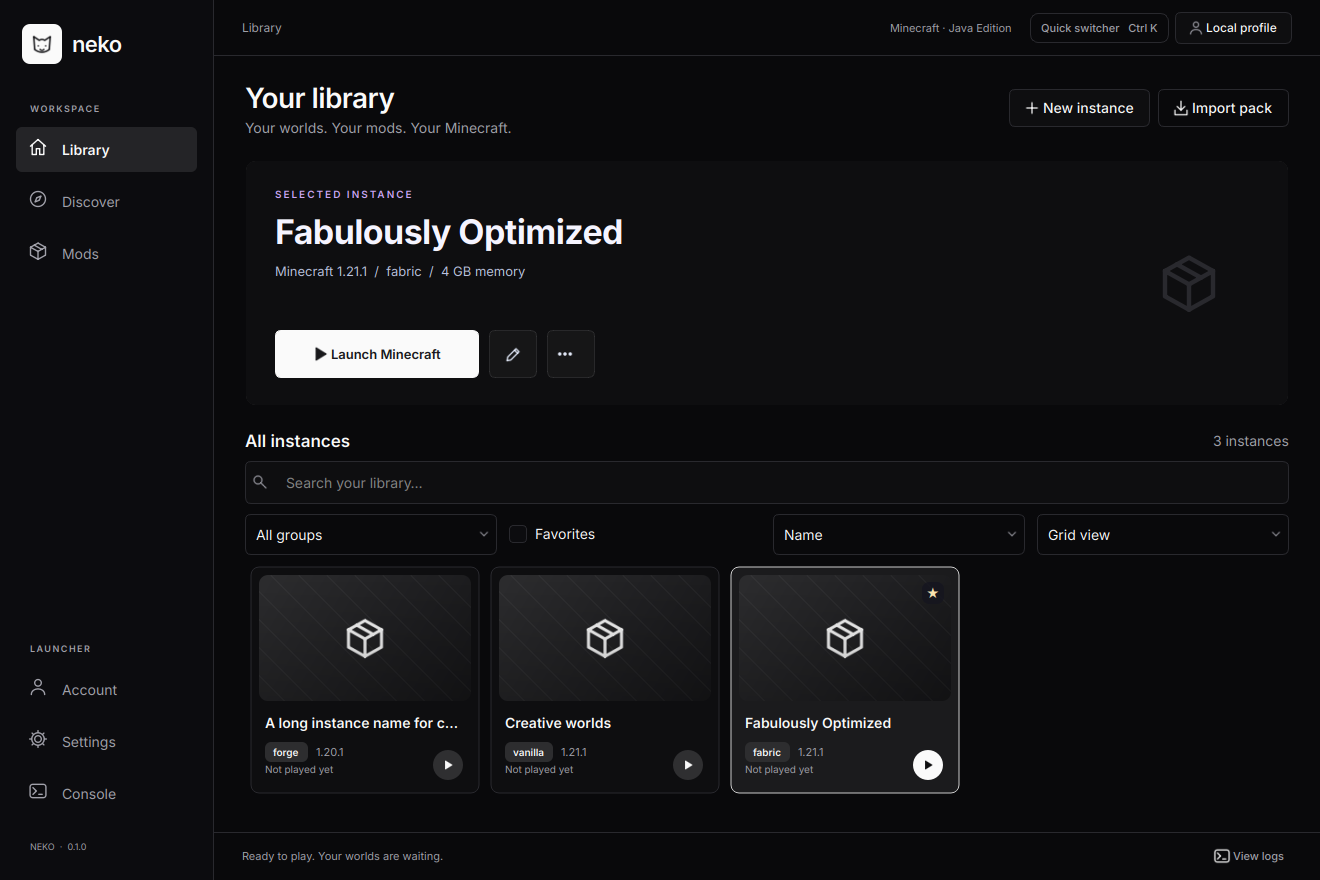
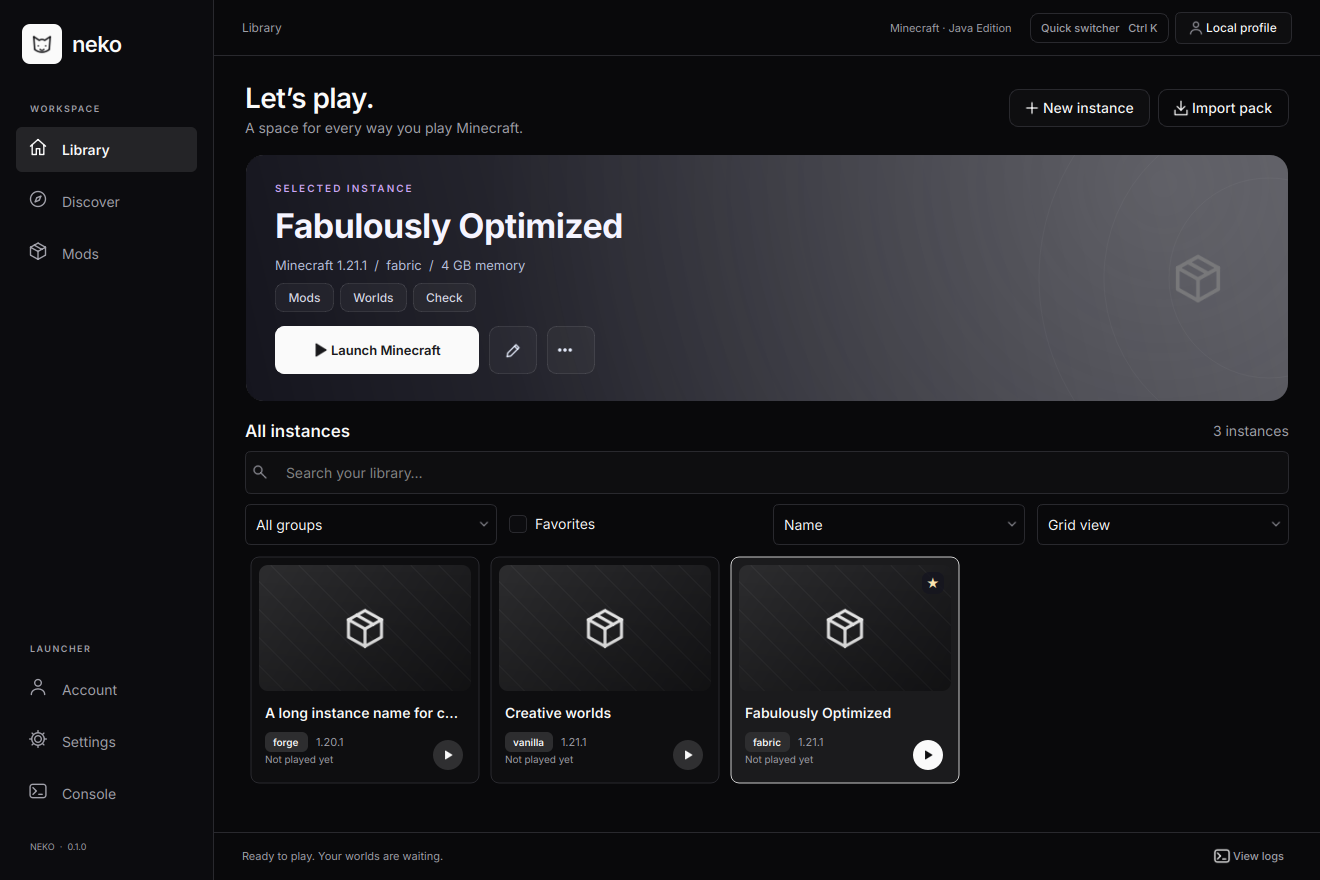
feat: add mod management and library shortcuts

diff --git a/src/ui/mods.cpp b/src/ui/mods.cpp
@@ -7,8 +7,30 @@ using namespace neko::ui;
 QWidget *Window::modsPage() {
     QVBoxLayout *l;
     auto *w = page(l, "Your mods",
-                   "Manage the mods in the selected instance. Double-click a mod to enable or disable it.");
+                   "Build your loadout. Browse, organize and toggle mods for the selected instance.");
+    auto *filters = new QHBoxLayout;
+    modSearch = entry({}, "Search installed mods…");
+    modSearch->setProperty("searchField", true);
+    modSearch->setClearButtonEnabled(true);
+    filters->addWidget(modSearch, 1);
+    modState = new QComboBox;
+    modState->addItems({"All mods", "Enabled", "Disabled"});
+    filters->addWidget(modState);
+    button("Refresh", filters, [this] { refreshMods(); })->setToolTip("Refresh installed mods · F5");
+    auto *refreshShortcut = new QShortcut(QKeySequence(Qt::Key_F5), w);
+    refreshShortcut->setContext(Qt::WidgetWithChildrenShortcut);
+    connect(refreshShortcut, &QShortcut::activated, this, [this] { refreshMods(); });
+    auto *findShortcut = new QShortcut(QKeySequence::Find, w);
+    findShortcut->setContext(Qt::WidgetWithChildrenShortcut);
+    connect(findShortcut, &QShortcut::activated, modSearch, qOverload<>(&QWidget::setFocus));
+    l->addLayout(filters);
+    modSummary = label({}, "muted");
+    l->addWidget(modSummary);
+    connect(modSearch, &QLineEdit::textChanged, this, [this] { filterMods(); });
+    connect(modState, &QComboBox::currentIndexChanged, this, [this] { filterMods(); });
     mods = new QListWidget;
+    mods->setSelectionMode(QAbstractItemView::ExtendedSelection);
+    mods->setAlternatingRowColors(true);
     mods->setMinimumHeight(240);
     mods->setHorizontalScrollBarPolicy(Qt::ScrollBarAlwaysOff);
     l->addWidget(mods, 1);
@@ -17,11 +39,9 @@ QWidget *Window::modsPage() {
     connect(mods, &QListWidget::itemDoubleClicked, this, [this](QListWidgetItem *item) {
         if (busy || (game && game->state() != QProcess::NotRunning))
             return;
-        auto path = item->data(Qt::UserRole).toString();
-        auto target = path.endsWith(".disabled") ? path.left(path.size() - 9) : path + ".disabled";
-        if (!QFile::rename(path, target))
-            QMessageBox::warning(this, "Mod toggle failed", "Could not rename mod file.");
-        refreshMods();
+        mods->clearSelection();
+        item->setSelected(true);
+        toggleMods(item->data(Qt::UserRole).toString().endsWith(".disabled"));
     });
     button("Browse mods", buttons, [this] {
         showPage(1);
@@ -36,6 +56,8 @@ QWidget *Window::modsPage() {
         if (j.isEmpty() || busy || (game && game->state() != QProcess::NotRunning))
             return;
         auto files = QFileDialog::getOpenFileNames(this, "Add mods", {}, "Java mods (*.jar)");
+        if (files.isEmpty())
+            return;
         auto dir = root + "/instances/" + j["id"].toString() + "/mods";
         QDir().mkpath(dir);
         task(
@@ -52,7 +74,16 @@ QWidget *Window::modsPage() {
             },
             [this](QVariant) { refreshMods(); });
     });
-    button("Refresh", buttons, [this] { refreshMods(); });
+    button("Open folder", buttons, [this] { openInstanceFolder("mods"); });
+    auto *selection = new QHBoxLayout;
+    l->addLayout(selection);
+    button("Enable selected", selection, [this] { toggleMods(true); });
+    button("Disable selected", selection, [this] { toggleMods(false); });
+    button("Select visible", selection, [this] {
+        for (int i = 0; i < mods->count(); ++i)
+            mods->item(i)->setSelected(!mods->item(i)->isHidden());
+    });
+    connect(mods, &QListWidget::itemSelectionChanged, this, [this] { filterMods(); });
     l->addWidget(label("Use mods made for the instance’s Minecraft version and loader. Dependencies must be "
                        "included. Neko does not execute mods until you launch Minecraft.",
                        "muted"));
@@ -61,12 +92,63 @@ QWidget *Window::modsPage() {
 void Window::refreshMods() {
     mods->clear();
     auto j = selected();
-    if (j.isEmpty())
+    if (j.isEmpty()) {
+        filterMods();
         return;
+    }
     QDir d(root + "/instances/" + j["id"].toString() + "/mods");
     for (const auto &file : d.entryList({"*.jar", "*.jar.disabled"}, QDir::Files | QDir::NoSymLinks)) {
         auto *item = new QListWidgetItem((file.endsWith(".disabled") ? "○  " : "●  ") + file);
         item->setData(Qt::UserRole, d.filePath(file));
+        item->setToolTip(file);
         mods->addItem(item);
     }
+    filterMods();
+}
+
+void Window::filterMods() {
+    if (!mods || !modSearch || !modState)
+        return;
+    int enabled = 0, visible = 0, selectedCount = 0;
+    for (int i = 0; i < mods->count(); ++i) {
+        auto *item = mods->item(i);
+        const bool disabled = item->data(Qt::UserRole).toString().endsWith(".disabled");
+        enabled += !disabled;
+        const bool match = item->text().contains(modSearch->text().trimmed(), Qt::CaseInsensitive) &&
+                           (modState->currentIndex() == 0 || disabled == (modState->currentIndex() == 2));
+        item->setHidden(!match);
+        visible += match;
+        selectedCount += match && item->isSelected();
+    }
+    const auto instance = selected();
+    modSummary->setText(instance.isEmpty() ? "Choose an instance in your library first."
+                                           : QString("%1 · %2 enabled · %3 disabled · %4 shown · %5 selected")
+                                                 .arg(instance["name"].toString())
+                                                 .arg(enabled)
+                                                 .arg(mods->count() - enabled)
+                                                 .arg(visible)
+                                                 .arg(selectedCount));
+}
+
+void Window::toggleMods(bool enabled) {
+    if (busy || (game && game->state() != QProcess::NotRunning))
+        return;
+    QStringList failures;
+    for (auto *item : mods->selectedItems()) {
+        if (item->isHidden())
+            continue;
+        const auto path = item->data(Qt::UserRole).toString();
+        const bool disabled = path.endsWith(".disabled");
+        if (enabled != disabled)
+            continue;
+        const auto target = enabled ? path.left(path.size() - 9) : path + ".disabled";
+        // Rename the directory entry; shared mod contents stay immutable.
+        if (!QFile::rename(path, target))
+            failures << QFileInfo(path).fileName();
+    }
+    refreshMods();
+    if (!failures.isEmpty())
+        QMessageBox::warning(this, "Some mods could not be changed",
+                             "An existing file or file permissions prevented toggling:\n" +
+                                 failures.join('\n'));
 }

diff --git a/src/cards.cpp b/src/cards.cpp
@@ -77,7 +77,7 @@ void LandscapeCard::paintEvent(QPaintEvent *) {
     QPainter p(this);
     p.setRenderHint(QPainter::Antialiasing);
     QPainterPath mask;
-    mask.addRoundedRect(QRectF(rect()).adjusted(1, 1, -1, -1), 10, 10);
+    mask.addRoundedRect(QRectF(rect()).adjusted(1, 1, -1, -1), 18, 18);
     p.setClipPath(mask);
     const auto pal = qApp->palette();
     const auto accent = pal.color(QPalette::Highlight);
@@ -88,9 +88,22 @@ void LandscapeCard::paintEvent(QPaintEvent *) {
     if (!cover.isNull())
         drawCover(p, rect(), cover);
     else {
-        p.fillRect(rect(), base);
-        glyph(Glyph::Mods, pal.color(QPalette::Mid))
-            .paint(&p, QRect(width() - 132, height() / 2 - 32, 64, 64));
+        QLinearGradient backdrop(0, height(), width(), 0);
+        backdrop.setColorAt(0, QColor("#15151e"));
+        backdrop.setColorAt(1, blend(QColor("#181822"), accent, .23));
+        p.fillRect(rect(), backdrop);
+        QRadialGradient glow(QPointF(width() * .88, height() * .12), width() * .65);
+        auto tint = accent;
+        tint.setAlpha(38);
+        glow.setColorAt(0, tint);
+        glow.setColorAt(1, Qt::transparent);
+        p.fillRect(rect(), glow);
+        p.setPen(QPen(QColor(255, 255, 255, 9), 1));
+        p.setBrush(Qt::NoBrush);
+        for (int radius : {100, 165, 230})
+            p.drawEllipse(QPointF(width() - 20, height() / 2.), radius, radius);
+        glyph(Glyph::Mods, blend(base, accent, .45))
+            .paint(&p, QRect(width() - 118, height() / 2 - 27, 54, 54));
     }
     QLinearGradient scrim(0, 0, width(), 0);
     scrim.setColorAt(0, QColor(18, 18, 29, 255));
@@ -109,8 +122,7 @@ void LandscapeCard::paintEvent(QPaintEvent *) {
     border.setColorAt(1, QColor(255, 255, 255, 16));
     p.setPen(QPen(QBrush(border), 1));
     p.setBrush(Qt::NoBrush);
-    p.setPen(QPen(pal.color(QPalette::Mid), 1));
-    p.drawRoundedRect(QRectF(rect()).adjusted(.5, .5, -.5, -.5), 10, 10);
+    p.drawRoundedRect(QRectF(rect()).adjusted(.5, .5, -.5, -.5), 18, 18);
 }
 InstanceDelegate::InstanceDelegate(QObject *parent, std::function<void(QModelIndex)> action)
     : QStyledItemDelegate(parent), launch(std::move(action)) {}

diff --git a/src/ui/library.cpp b/src/ui/library.cpp
@@ -13,7 +13,7 @@ QWidget *Window::libraryPage() {
     auto *lLocal = new QVBoxLayout(w);
     l = lLocal;
     l->setContentsMargins(30, 24, 30, 28);
-    l->setSpacing(24);
+    l->setSpacing(18);
     l->setSizeConstraint(QLayout::SetMinimumSize);
 
     auto *header = new QBoxLayout(QBoxLayout::LeftToRight);
@@ -22,8 +22,8 @@ QWidget *Window::libraryPage() {
     l->addLayout(header);
     auto *intro = new QVBoxLayout;
     intro->setSpacing(4);
-    intro->addWidget(label("Your library", "libraryTitle"));
-    intro->addWidget(label("Your worlds. Your mods. Your Minecraft.", "muted"));
+    intro->addWidget(label("Let’s play.", "libraryTitle"));
+    intro->addWidget(label("A space for every way you play Minecraft.", "muted"));
     header->addLayout(intro, 1);
     auto *headerActions = new QHBoxLayout;
     headerActions->setSpacing(8);
@@ -86,6 +86,13 @@ QWidget *Window::libraryPage() {
         label("Create a vanilla instance or import a Modrinth / CurseForge modpack to get started.", "muted");
     info->addWidget(detail);
     info->addStretch();
+    auto *shortcuts = new QHBoxLayout;
+    shortcuts->setSpacing(6);
+    info->addLayout(shortcuts);
+    button("Mods", shortcuts, [this] { showPage(2); })->setObjectName("heroShortcut");
+    button("Worlds", shortcuts, [this] { openInstanceFolder("saves"); })->setObjectName("heroShortcut");
+    button("Check", shortcuts, [this] { checkInstance(); })->setObjectName("heroShortcut");
+    shortcuts->addStretch();
     play = button("Launch Minecraft", actions, [this] { launch(); });
     play->setMinimumWidth(204);
     play->setMinimumHeight(48);

diff --git a/src/ui/verification.cpp b/src/ui/verification.cpp
@@ -63,6 +63,41 @@ int Window::verifyUi(const QString &output) {
                 ++failures;
         }
     }
+    {
+        // Exercise toggling with private fixture files, never installed game mods.
+        QTemporaryDir directory;
+        const auto enabled = directory.filePath("example.jar");
+        QFile file(enabled);
+        if (!file.open(QIODevice::WriteOnly) || file.write("fixture") != 7)
+            ++failures;
+        file.close();
+        mods->clear();
+        auto *item = new QListWidgetItem("example.jar", mods);
+        item->setData(Qt::UserRole, enabled);
+        modSearch->setText("does-not-match");
+        if (!item->isHidden())
+            ++failures;
+        modSearch->clear();
+        item->setSelected(true);
+        toggleMods(false);
+        if (!QFile::exists(enabled + ".disabled") || QFile::exists(enabled))
+            ++failures;
+        mods->clear();
+        item = new QListWidgetItem("example.jar.disabled", mods);
+        item->setData(Qt::UserRole, enabled + ".disabled");
+        modState->setCurrentIndex(1);
+        if (!item->isHidden())
+            ++failures;
+        modState->setCurrentIndex(2);
+        if (item->isHidden())
+            ++failures;
+        item->setSelected(true);
+        toggleMods(true);
+        if (!QFile::exists(enabled) || QFile::exists(enabled + ".disabled"))
+            ++failures;
+        modState->setCurrentIndex(0);
+        refreshMods();
+    }
     resize(700, 560);
     showPage(1);
     QApplication::processEvents();

diff --git a/src/ui/appearance.cpp b/src/ui/appearance.cpp
@@ -81,7 +81,9 @@ QLabel { background:transparent; }
 #heroKicker { color:#cba6f7; font-size:10px; letter-spacing:2px; font-weight:600; }
 #heroText #muted { color:#bac2de; font-size:13px; }
 #heroActions QPushButton { font-size:13px; }
-QPushButton { background:transparent; border:1px solid %4; border-radius:6px; padding:9px 13px; font-weight:500; }
+QPushButton#heroShortcut { background:rgba(255,255,255,10); border:1px solid rgba(255,255,255,24); border-radius:8px; color:#d8d9e8; padding:6px 12px; font-size:12px; }
+QPushButton#heroShortcut:hover { background:rgba(255,255,255,26); border-color:#cba6f7; }
+QPushButton { background:transparent; border:1px solid %4; border-radius:9px; padding:9px 13px; font-weight:500; }
 QPushButton:hover { background:%4; border-color:%5; }
 QPushButton:pressed { border-color:%6; }
 QPushButton:disabled { color:%5; }

diff --git a/src/window.hpp b/src/window.hpp
@@ -23,7 +23,11 @@ class Window : public QMainWindow {
     QBoxLayout *libraryHeader{}, *profileActions{}, *discoverBody{};
     QWidget *discoverFilterPanel{};
     QNetworkAccessManager *artworkNetwork{};
-    QLineEdit *instanceSearch{};
+    QLineEdit *instanceSearch{}, *modSearch{};
+    QComboBox *modState{};
+    QLabel *modSummary{};
+    void filterMods();
+    void toggleMods(bool enabled);
     QCheckBox *favoritesOnly{};
     QLabel *pageTitle{}, *collectionCount{};
     QMenu *instanceActions{};

diff --git a/README.md b/README.md
@@ -151,3 +151,5 @@ The Linux game environment also includes configured PipeWire, PulseAudio and ALS
 **Edit instance → Runtime → Linux audio backend** provides Automatic, PipeWire, PulseAudio and ALSA. Automatic preserves existing OpenAL configuration. Explicit choices use OpenAL Soft’s documented [`ALSOFT_DRIVERS` override](https://github.com/kcat/openal-soft/blob/master/docs/env-vars.txt). In-game volume and output-device preferences are preserved.
 
 Optional desktop audio diagnostic: `./build/audio-tests /absolute/path/to/instance/natives/libopenal.so` compares inherited and launcher environments by opening and closing the default output device. It plays no sound and needs access to the user’s desktop audio socket; it is not part of unattended CTest.
+
+The library play card includes direct Mods, Worlds and health-check shortcuts. The Mods page supports case-insensitive filename search (Ctrl+F), enabled/disabled filters, visible-item selection, and bulk enable/disable. Ctrl/Shift select multiple rows; double-click toggles one mod. Refresh with F5 after external changes. Toggles rename files without modifying shared contents, skip hidden selections, and are blocked while Minecraft is running or a job is active.
